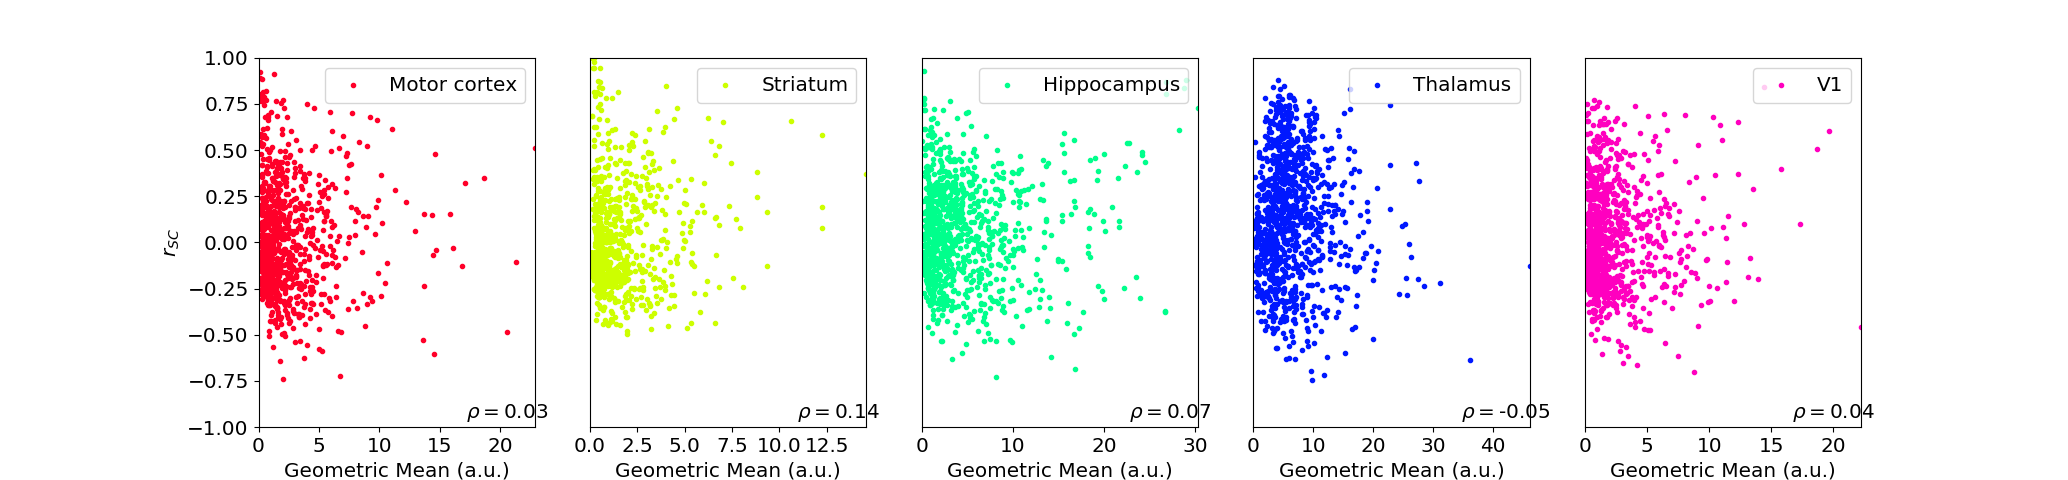
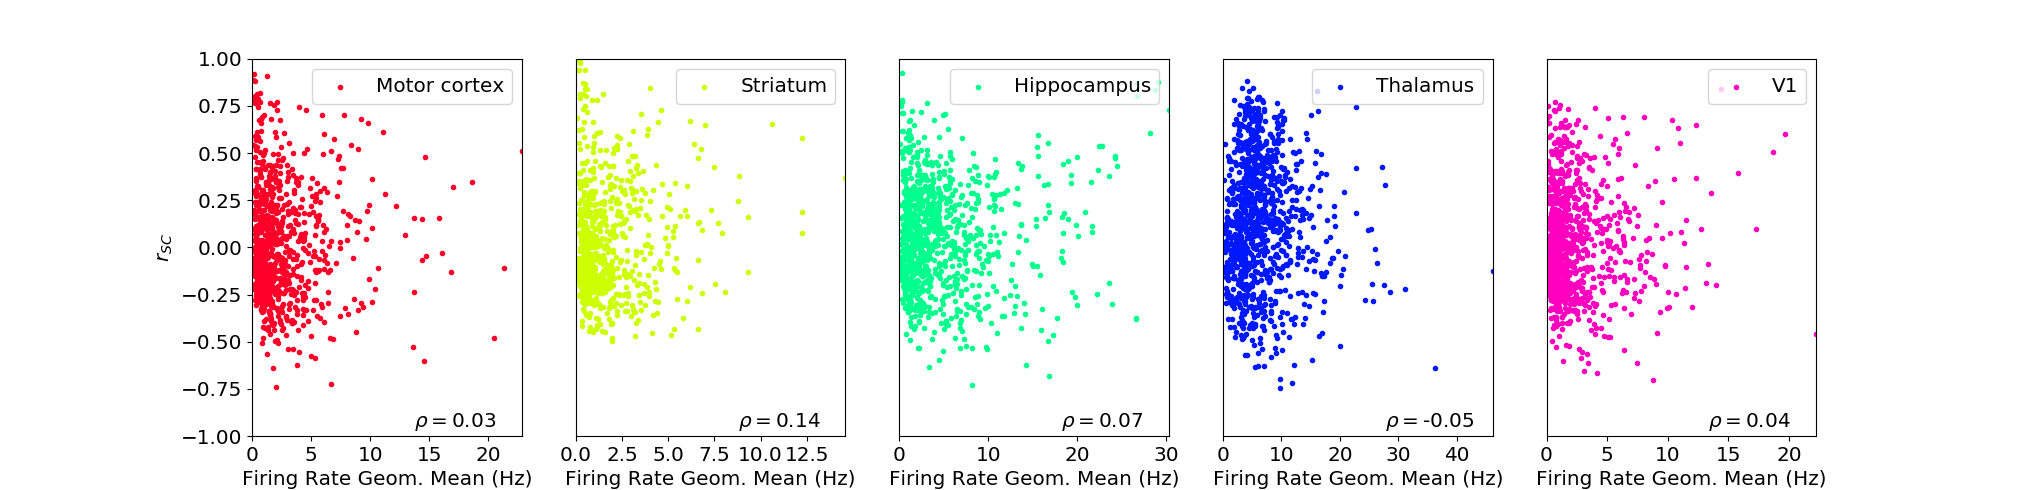
Added figures.

diff --git a/py/detect_communities.py b/py/detect_communities.py
@@ -11,6 +11,8 @@ import datetime as dt
 import matplotlib.pyplot as plt
 from itertools import combinations
 from scipy.io import loadmat
+from matplotlib import colors
+from mpl_toolkits.axes_grid1 import make_axes_locatable
 
 parser = argparse.ArgumentParser(description='For creating histograms of correlation coefficients.')
 parser.add_argument('-n', '--number_of_cells', help='The number of cells to choose at random.', default=1000, type=int)
@@ -137,6 +139,38 @@ def runNNRSaveFigsData(measure_matrix, measure_type): # measure type, 'info' or 
     noise_final_cell_info.to_pickle(os.path.join(npy_dir, measure_type, 'noise_final_cell_info_' + args.numpy_file_prefix + '_' + str(int(args.percentile)) + '.pkl'))
     print(dt.datetime.now().isoformat() + ' INFO: ' + measure_type.capitalize() + ' done.')
 
+def plotRegionalClusterMap(signal_final_cell_info):
+    colours = rcp.region_to_colour.keys()
+    num_nodes = signal_final_cell_info.shape[0]
+    sorted_final_cell_info = signal_final_cell_info.sort_values(['consensus_cluster', 'region', 'depth'], ascending=[False, True, True])
+    regional_cluster_matrix = np.zeros([num_nodes, num_nodes])
+    for i,j in combinations(np.arange(num_nodes), 2):
+        i_region = sorted_final_cell_info.iloc[i]['region']
+        j_region = sorted_final_cell_info.iloc[j]['region']
+        i_cluster = sorted_final_cell_info.iloc[i]['consensus_cluster']
+        j_cluster = sorted_final_cell_info.iloc[j]['consensus_cluster']
+        if (i_region == j_region) & (i_cluster == j_cluster):
+            regional_cluster_matrix[i,j] = colours.index(i_region)+1
+
+    regional_cluster_matrix = regional_cluster_matrix + regional_cluster_matrix.T
+    sorted_clustering = sorted_final_cell_info['consensus_cluster'].values
+    cluster_changes = np.hstack([-1, np.flatnonzero(np.diff(sorted_clustering) != 0), sorted_clustering.size-1]) + 0.5
+    cmap = colors.ListedColormap(np.vstack([colors.to_rgba('paleturquoise'), rcp.region_to_colour.values()]))
+    bounds = [0,1,2,3,4,5,6]
+    norm = colors.BoundaryNorm(bounds, cmap.N)
+    plt.figure()
+    ax = plt.gca()
+    im = ax.matshow(regional_cluster_matrix, cmap=cmap, norm=norm)
+    for i in range(cluster_changes.size-2):
+        ax.plot([cluster_changes[i+1], cluster_changes[i+1]], [cluster_changes[i], cluster_changes[i+2]], color='white', linewidth=2.0)
+        ax.plot([cluster_changes[i], cluster_changes[i+2]], [cluster_changes[i+1], cluster_changes[i+1]], color='white', linewidth=2.0)
+
+    divider = make_axes_locatable(ax)
+    cax = divider.append_axes("right", size="5%", pad=0.05)
+    cb = plt.colorbar(im, cax=cax, cmap=cmap, norm=norm, boundaries=bounds, ticks=np.array(bounds)[1:] - 0.5)
+    cb.set_ticklabels([c.replace('_', ' ').capitalize() for c in [''] + colours] )
+    plt.tight_layout()
+
 print(dt.datetime.now().isoformat() + ' INFO: ' + 'Loading cell info...')
 cell_info, id_adjustor = rc.loadCellInfo(csv_dir)
 print(dt.datetime.now().isoformat() + ' INFO: ' + 'Loading stim info...')
@@ -165,5 +199,5 @@ else:
     corr_matrix, symm_unc_matrix, info_matrix = getPairwiseMeasurementMatrices(pairs, region_sorted_cell_ids, pairwise_measurements)
 
 # runNNRSaveFigsData(info_matrix, 'info')
-runNNRSaveFigsData(np.abs(corr_matrix), 'corr')
+# runNNRSaveFigsData(np.abs(corr_matrix), 'corr')
 print(dt.datetime.now().isoformat() + ' INFO: ' + 'Done.')

diff --git a/py/geometric_mean_plotting.py b/py/geometric_mean_plotting.py
@@ -61,11 +61,11 @@ def plotMeasureVsGeomMeanForRegion(working_frame, region, measure, y_lim, y_labe
     else:
         plt.yticks([])
     plt.ylim(y_lim)
-    plt.xlabel(r'Geometric Mean (a.u.)', fontsize='x-large')
+    plt.xlabel(r'Firing Rate Geom. Mean (Hz)', fontsize='x-large')
     plt.xticks(fontsize='x-large')
     plt.xlim([0, geom_max])
     plt.legend(fontsize='x-large', loc='upper right')
-    plt.text(geom_max*0.75, text_y, r'$\rho=$' + str(round(correlation,2)), fontsize='x-large')
+    plt.text(geom_max*0.6, text_y, r'$\rho=$' + str(round(correlation,2)), fontsize='x-large')
     plt.tight_layout() if is_tight else 0
 
 def saveAndClose(filename, directory):
@@ -79,7 +79,7 @@ def plotMeasuresVsGeomMean(working_frame, region, stim_id, prefix):
     print(dt.datetime.now().isoformat() + ' INFO: ' + 'Saving '+ filename + '...')
     plt.savefig(os.path.join(image_dir, 'geometric_mean', filename))
     plt.close()
-    plotMeasureVsGeomMeanForRegion(working_frame, region, 'mutual_info_qe', [0, working_frame.mutual_info_qe.max()], r'$I(X;Y)$ (bits)')
+    plotMeasureVsGeomMeanForRegion(working_frame, region, 'mutual_info_qe', [0, working_frame.mutual_info_qe.max()], y_label=r'$I(X;Y)$ (bits)')
     filename = prefix + 'info_vs_geometric_' + region + '_' + str(stim_id) + '.png'
     saveAndClose(filename, 'geometric_mean')
 
